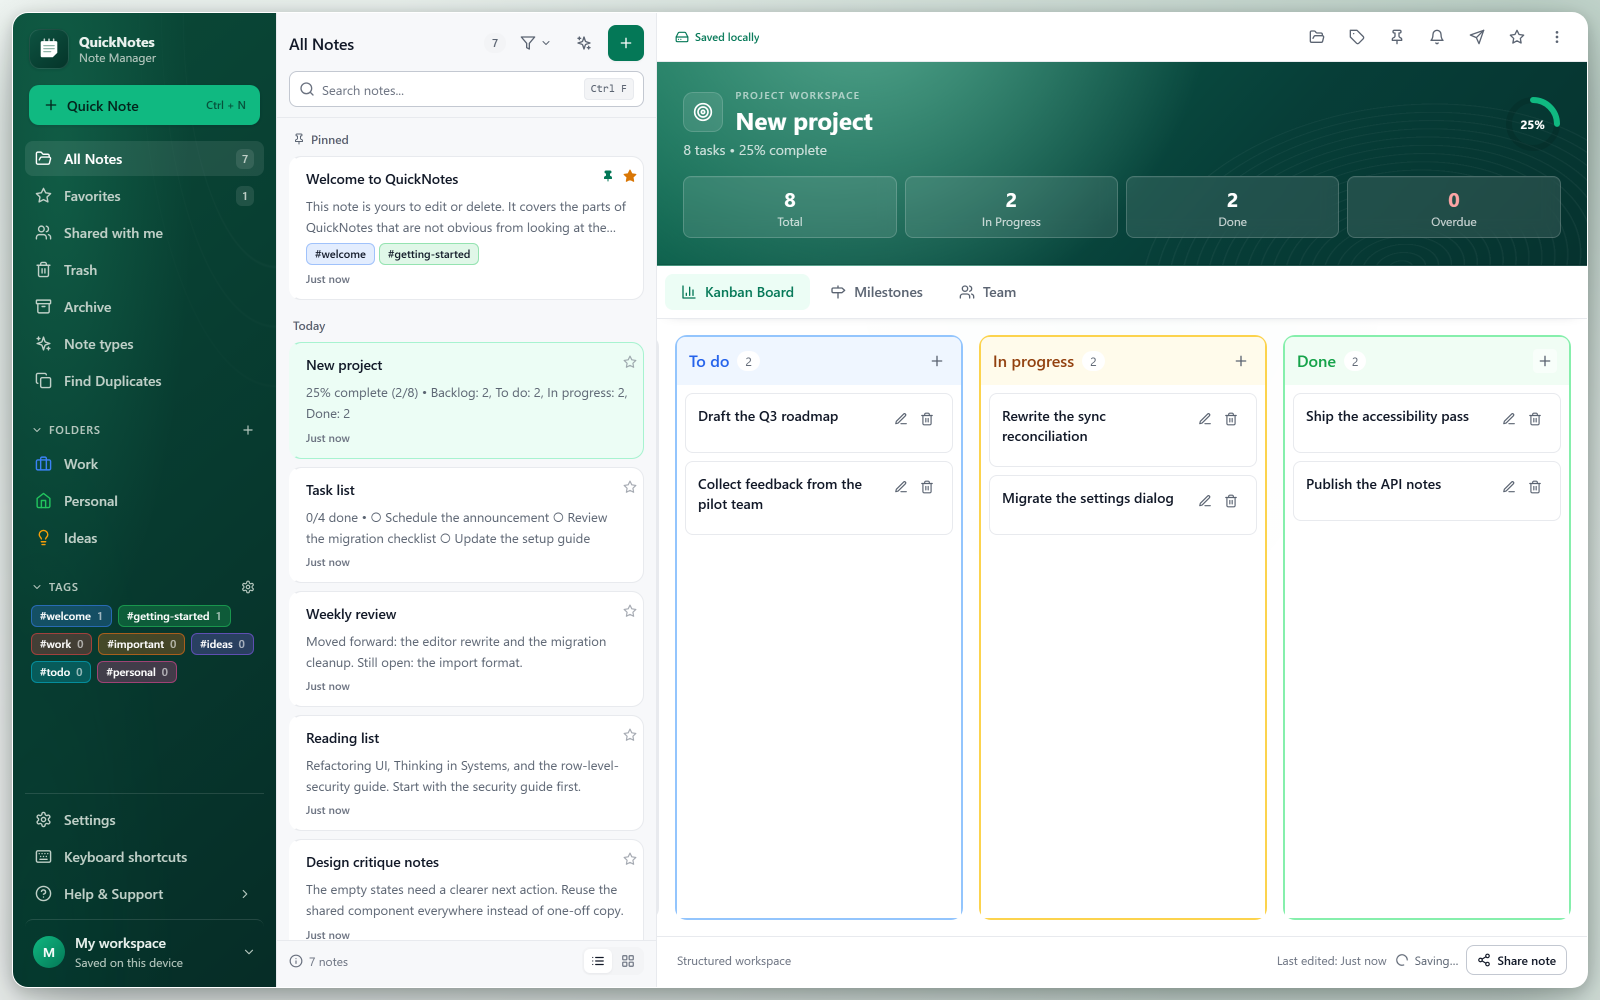
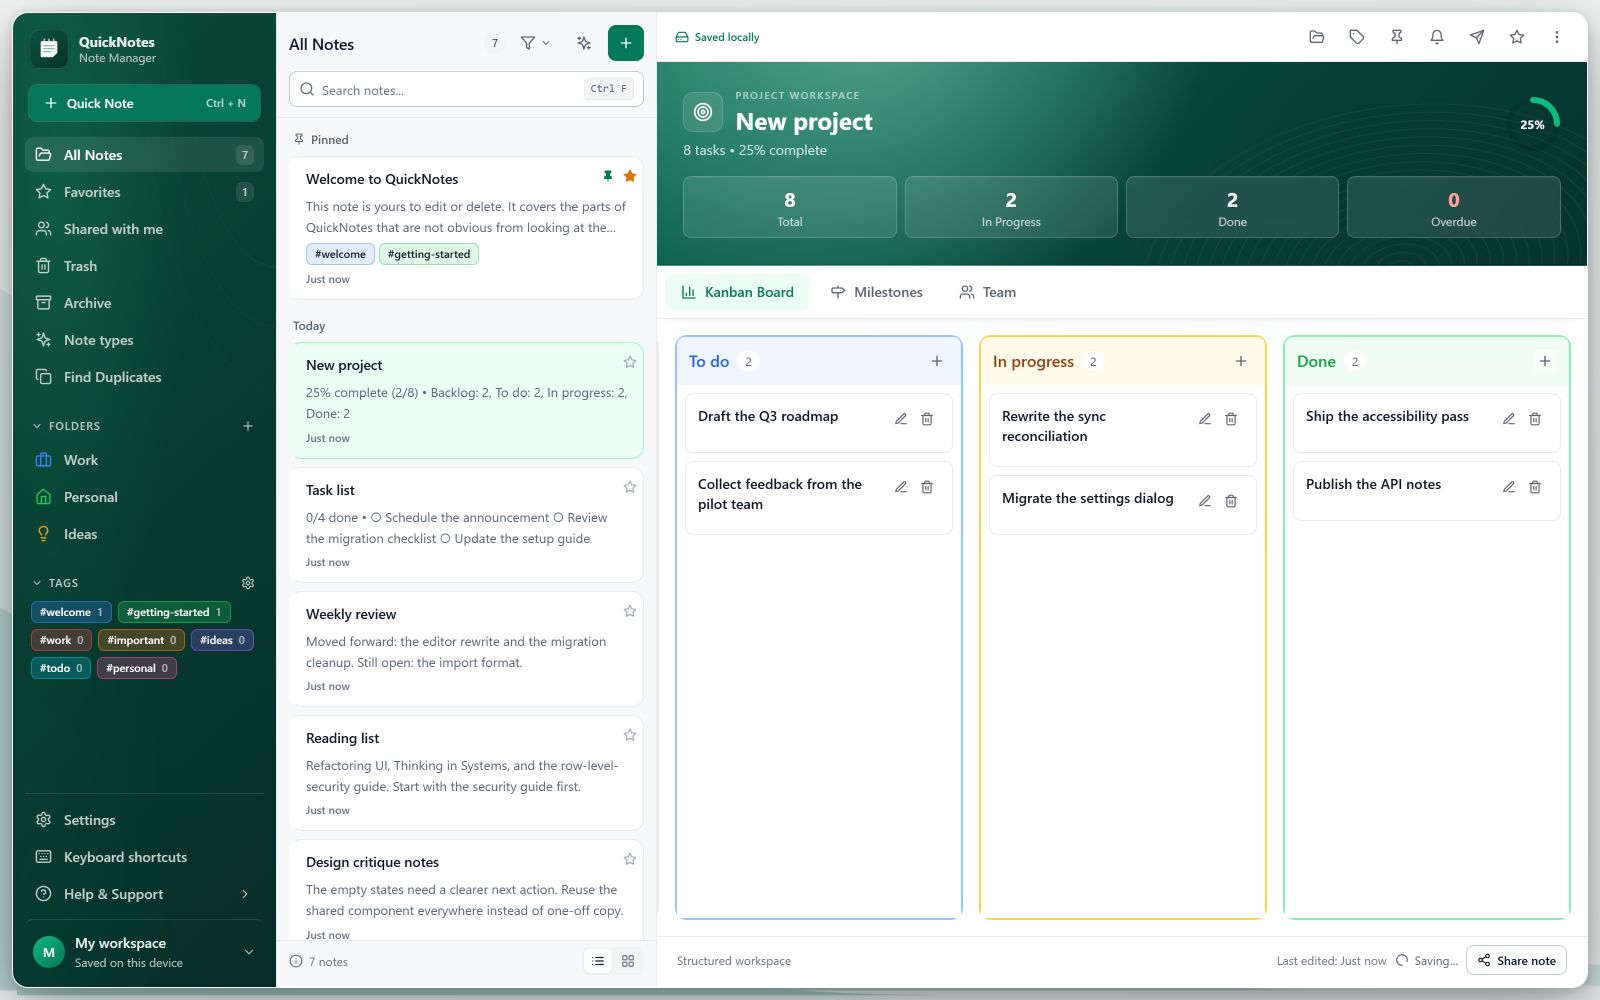
feat: draw the canvas waves, and put the controls I broke back on the design system
Canvas:
- CanvasWaves renders the four bands as real SVG geometry — #afcfca, #b8d4d0,
  #cbdfdd and #d9e6e4 over an #f2f5f4 to #e9f0ef field — instead of the
  stacked gradients that stood in for them. A gradient cannot produce the
  crossing curves the design calls for, which is why the previous attempts
  never looked like the reference
- preserveAspectRatio="none" keeps the composition proportional to the window
  rather than letter-boxing on a wide monitor, and each band drifts on its own
  cycle so the motion never resolves into one visible loop
- Mounted once for the sign-in screen and once for the workspace, at z-index
  -1, so both sit on the same canvas

Controls put back on the system:
- Quick note was a raw #10b981 fill with a hand-picked label colour. It is a
  Button with the primary variant again, so it takes its colour from the
  accent tokens like every other primary action
- Both display-name rows use Input and Button, so they match the profile
  picture row beside them instead of introducing a third button style

diff --git a/src/index.css b/src/index.css
@@ -643,60 +643,74 @@ input[type="datetime-local"]:not([class*="opacity-0"]):focus {
 }
 
 /* Application canvas.
-   A soft sage field with broad bands of light sweeping across it, shared by
-   the sign-in screen and the workspace so the two feel like one product. The
-   top right is deliberately the deepest tone, which is what lets the white
-   panel edge read against it. The bands drift slowly; nothing else moves. */
+   A pale field with four curved bands lifting out of the bottom-left corner.
+   The field lives on <body>; the bands are drawn by CanvasWaves and sit at
+   z-index -1, above the field and below everything the app renders. */
 .qn-canvas {
-  background-color: #e9f1ed;
-  background-image:
-    radial-gradient(68% 52% at 14% 86%, rgba(255, 255, 255, 0.95) 0%, rgba(255, 255, 255, 0) 62%),
-    radial-gradient(86% 44% at 44% 58%, rgba(255, 255, 255, 0.62) 0%, rgba(255, 255, 255, 0) 66%),
-    radial-gradient(58% 40% at 72% 80%, rgba(216, 232, 224, 0.7) 0%, rgba(216, 232, 224, 0) 62%),
-    radial-gradient(74% 62% at 94% 4%, rgba(188, 209, 199, 0.9) 0%, rgba(188, 209, 199, 0) 64%),
-    linear-gradient(158deg, #f2f8f5 0%, #e9f1ed 42%, #dfeae4 100%);
-  background-size:
-    150% 150%,
-    150% 150%,
-    150% 150%,
-    150% 150%,
-    100% 100%;
-  background-position:
-    12% 88%,
-    44% 58%,
-    72% 80%,
-    94% 4%,
-    0% 0%;
-  animation: qn-canvas-drift 48s ease-in-out infinite alternate;
-}
-
-@keyframes qn-canvas-drift {
-  from {
-    background-position: 12% 88%, 44% 58%, 72% 80%, 94% 4%, 0% 0%;
-  }
-  to {
-    background-position: 20% 78%, 52% 66%, 64% 72%, 88% 12%, 0% 0%;
-  }
+  background: linear-gradient(148deg, #f2f5f4 0%, #eef3f2 46%, #e9f0ef 100%);
 }
 
 .dark .qn-canvas {
-  background-color: #0e1315;
-  background-image:
-    radial-gradient(68% 52% at 14% 86%, rgba(38, 52, 47, 0.85) 0%, rgba(38, 52, 47, 0) 62%),
-    radial-gradient(86% 44% at 44% 58%, rgba(30, 42, 38, 0.7) 0%, rgba(30, 42, 38, 0) 66%),
-    radial-gradient(58% 40% at 72% 80%, rgba(24, 34, 31, 0.7) 0%, rgba(24, 34, 31, 0) 62%),
-    radial-gradient(74% 62% at 94% 4%, rgba(8, 12, 12, 0.9) 0%, rgba(8, 12, 12, 0) 64%),
-    linear-gradient(158deg, #131a1c 0%, #0f1518 42%, #0a0e11 100%);
+  background: linear-gradient(148deg, #141a1c 0%, #101619 46%, #0c1114 100%);
+}
+
+.qn-canvas-waves {
+  position: fixed;
+  inset: 0;
+  z-index: -1;
+  overflow: hidden;
+  pointer-events: none;
+}
+
+.qn-canvas-waves svg {
+  display: block;
+  width: 100%;
+  height: 100%;
+}
+
+.qn-wave {
+  will-change: transform;
+}
+
+.qn-wave--d { fill: #d9e6e4; animation: qn-wave-drift-d 34s ease-in-out infinite alternate; }
+.qn-wave--c { fill: #cbdfdd; animation: qn-wave-drift-c 28s ease-in-out infinite alternate; }
+.qn-wave--b { fill: #b8d4d0; animation: qn-wave-drift-b 23s ease-in-out infinite alternate; }
+.qn-wave--a { fill: #afcfca; animation: qn-wave-drift-a 19s ease-in-out infinite alternate; }
+
+.dark .qn-wave--d { fill: #1d2a29; }
+.dark .qn-wave--c { fill: #223130; }
+.dark .qn-wave--b { fill: #273a37; }
+.dark .qn-wave--a { fill: #2d423e; }
+
+/* Each band travels a slightly different path, so the crests drift apart and
+   back together instead of sliding as one block. */
+@keyframes qn-wave-drift-d {
+  from { transform: translate(0, 0); }
+  to { transform: translate(-46px, -18px); }
+}
+
+@keyframes qn-wave-drift-c {
+  from { transform: translate(0, 0); }
+  to { transform: translate(38px, -13px); }
+}
+
+@keyframes qn-wave-drift-b {
+  from { transform: translate(0, 0); }
+  to { transform: translate(-30px, -9px); }
+}
+
+@keyframes qn-wave-drift-a {
+  from { transform: translate(0, 0); }
+  to { transform: translate(24px, -6px); }
 }
 
 @media (prefers-reduced-motion: reduce) {
-  .qn-canvas {
-    animation: none;
-  }
+  .qn-wave { animation: none; }
 }
 
+/* The sign-in screen sits directly on the canvas. */
 .qn-auth-page {
-  background-color: #e9f1ed;
+  background: transparent;
 }
 
 /* Sign-in hero and navigation rail share one material: an emerald-tinted deep

diff --git a/src/components/SettingsModal.jsx b/src/components/SettingsModal.jsx
@@ -1,5 +1,5 @@
 import { useState } from 'react'
-import { Avatar, Field, SegmentedControl, Toggle } from './ui'
+import { Avatar, Button, Field, Input, SegmentedControl, Toggle } from './ui'
 import {
   X,
   User,
@@ -748,7 +748,7 @@ export default function SettingsModal() {
                         {t('settings.displayNameHint', 'Shown in the sidebar and on notes you share.')}
                       </p>
                       <div className="flex gap-2">
-                        <input
+                        <Input
                           type="text"
                           value={displayName}
                           maxLength={60}
@@ -756,16 +756,11 @@ export default function SettingsModal() {
                           onKeyDown={(e) => { if (e.key === 'Enter') handleSaveName() }}
                           placeholder="My workspace"
                           aria-label={t('settings.displayName', 'Display name')}
-                          className="flex-1 px-3 py-2 text-sm border rounded-lg outline-none border-strong bg-surface-raised text-content focus:border-accent"
+                          className="flex-1"
                         />
-                        <button
-                          type="button"
-                          onClick={handleSaveName}
-                          disabled={savingName}
-                          className="px-4 py-2 text-sm text-white transition-colors rounded-lg bg-accent hover:bg-accent-hover disabled:opacity-50"
-                        >
-                          {savingName ? t('settings.saving') : t('common.save')}
-                        </button>
+                        <Button variant="primary" onClick={handleSaveName} loading={savingName}>
+                          {t('common.save')}
+                        </Button>
                       </div>
                     </div>
 
@@ -869,7 +864,7 @@ export default function SettingsModal() {
                         {t('settings.displayNameHint', 'Shown in the sidebar and on notes you share.')}
                       </p>
                       <div className="flex gap-2">
-                        <input
+                        <Input
                           type="text"
                           value={displayName}
                           maxLength={60}
@@ -877,16 +872,11 @@ export default function SettingsModal() {
                           onKeyDown={(e) => { if (e.key === 'Enter') handleSaveName() }}
                           placeholder={t('settings.displayName', 'Display name')}
                           aria-label={t('settings.displayName', 'Display name')}
-                          className="flex-1 px-3 py-2 text-sm border rounded-lg outline-none border-strong bg-surface-raised text-content focus:border-accent"
+                          className="flex-1"
                         />
-                        <button
-                          type="button"
-                          onClick={handleSaveName}
-                          disabled={savingName}
-                          className="px-4 py-2 text-sm text-white transition-colors rounded-lg bg-accent hover:bg-accent-hover disabled:opacity-50"
-                        >
-                          {savingName ? t('settings.saving') : t('common.save')}
-                        </button>
+                        <Button variant="primary" onClick={handleSaveName} loading={savingName}>
+                          {t('common.save')}
+                        </Button>
                       </div>
                     </div>
                     <div className="p-4 border border-subtle rounded-lg ">

diff --git a/src/components/Sidebar.jsx b/src/components/Sidebar.jsx
@@ -24,7 +24,7 @@ import { useNotesStore, useThemeStore, useUIStore } from '../store'
 import { useTranslation } from '../lib/useTranslation'
 import { getFolderIcon } from '../lib/folderIcons'
 import { isBackendConfigured } from '../lib/backend'
-import { Avatar, Menu, MenuItem, MenuSeparator, NotepadGlyph, TagChip } from './ui'
+import { Avatar, Button, Menu, MenuItem, MenuSeparator, NotepadGlyph, TagChip } from './ui'
 import { FolderDialog, ConfirmDialog } from './FolderDialogs'
 
 /**
@@ -217,15 +217,19 @@ export default function Sidebar({ onNavigate }) {
 
       {/* Quick note */}
       <div className="shrink-0 px-4 pb-4">
-        <button
-          type="button"
+        {/* The rail's primary action. Built from the shared Button so it picks
+            up the accent tokens; the ring gives it an edge against the rail,
+            which is itself dark green. */}
+        <Button
+          variant="primary"
+          fullWidth
+          icon={Plus}
           onClick={go(() => setQuickNoteOpen(true))}
-          className="flex h-10 w-full items-center gap-2 rounded-[10px] bg-[#10b981] px-3.5 text-ui-lg font-semibold text-[#04241c] shadow-sm transition-[filter] duration-fast hover:brightness-105"
+          className="h-10 justify-start rounded-[10px] px-3.5 text-ui-lg ring-1 ring-white/15"
         >
-          <Plus className="h-4 w-4 shrink-0" aria-hidden="true" />
           <span className="flex-1 text-left">{t('sidebar.quickNote')}</span>
-          <kbd className="shrink-0 font-sans text-ui-xs font-semibold text-[#04241c]/70">Ctrl + N</kbd>
-        </button>
+          <kbd className="shrink-0 font-sans text-ui-xs font-medium text-white/70">Ctrl + N</kbd>
+        </Button>
       </div>
 
       {/* Scrollable navigation */}

diff --git a/src/components/ui/CanvasWaves.jsx b/src/components/ui/CanvasWaves.jsx
@@ -1,0 +1,37 @@
+/**
+ * The application canvas: four curved bands rising out of the bottom-left
+ * corner over a pale field.
+ *
+ * The bands are real geometry rather than stacked gradients, because a
+ * gradient cannot produce the crossing curves the design calls for. The
+ * viewBox is stretched with `preserveAspectRatio="none"` so the composition
+ * keeps its proportions relative to the window instead of letter-boxing on a
+ * wide monitor, and each band drifts on its own cycle so the movement never
+ * resolves into a single visible loop.
+ *
+ * Colours and motion live in index.css next to the rest of the canvas.
+ */
+export default function CanvasWaves() {
+  return (
+    <div className="qn-canvas-waves" aria-hidden="true">
+      <svg viewBox="0 0 1600 900" preserveAspectRatio="none" focusable="false">
+        <path
+          className="qn-wave qn-wave--d"
+          d="M0 250 C 300 438 668 622 1040 712 C 1250 762 1440 788 1600 800 L1600 900 L0 900 Z"
+        />
+        <path
+          className="qn-wave qn-wave--c"
+          d="M0 396 C 268 552 588 704 916 786 C 1140 842 1390 872 1600 884 L1600 900 L0 900 Z"
+        />
+        <path
+          className="qn-wave qn-wave--b"
+          d="M0 540 C 214 654 470 772 742 838 C 966 892 1240 900 1420 900 L0 900 Z"
+        />
+        <path
+          className="qn-wave qn-wave--a"
+          d="M0 674 C 164 748 368 822 578 868 C 716 898 850 900 952 900 L0 900 Z"
+        />
+      </svg>
+    </div>
+  )
+}

diff --git a/src/App.jsx b/src/App.jsx
@@ -38,7 +38,7 @@ import { useShareInvitations } from './lib/useCollaboration'
 import { useAppShortcuts } from './lib/shortcuts'
 import { useLayoutMode } from './hooks/useBreakpoint'
 import { PanelLeft, CloudOff } from 'lucide-react'
-import { IconButton, Spinner } from './components/ui'
+import { CanvasWaves, IconButton, Spinner } from './components/ui'
 
 function AppLoading() {
   return (
@@ -313,6 +313,7 @@ export default function App() {
   if (!user) {
     return (
       <ThemeProvider>
+        <CanvasWaves />
         <AuthScreen />
       </ThemeProvider>
     )
@@ -345,6 +346,7 @@ export default function App() {
 
   return (
     <ThemeProvider>
+      <CanvasWaves />
       <div className="qn-workspace-frame flex h-[100dvh] overflow-hidden bg-app text-content">
         <a href="#qn-main" className="qn-skip-link">
           Skip to content

diff --git a/src/components/ui/index.jsx b/src/components/ui/index.jsx
@@ -9,3 +9,4 @@ export { default as Spinner } from './Spinner'
 export { default as Avatar } from './Avatar'
 export { default as LegacyDialog } from './LegacyDialog'
 export { default as NotepadGlyph } from './NotepadGlyph'
+export { default as CanvasWaves } from './CanvasWaves'
